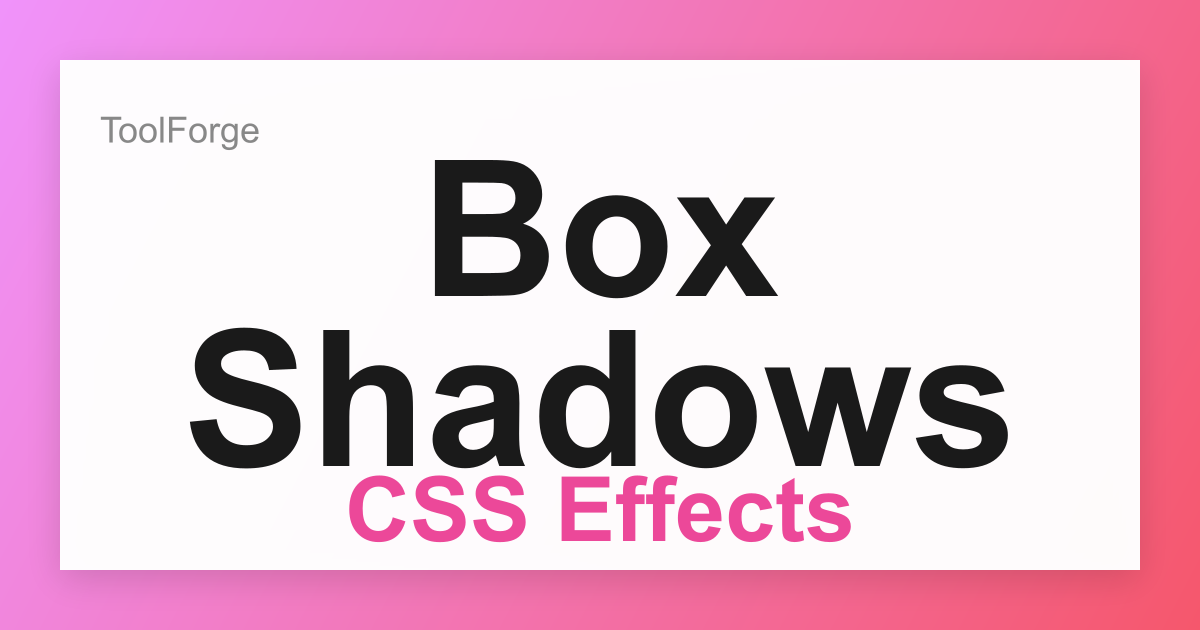
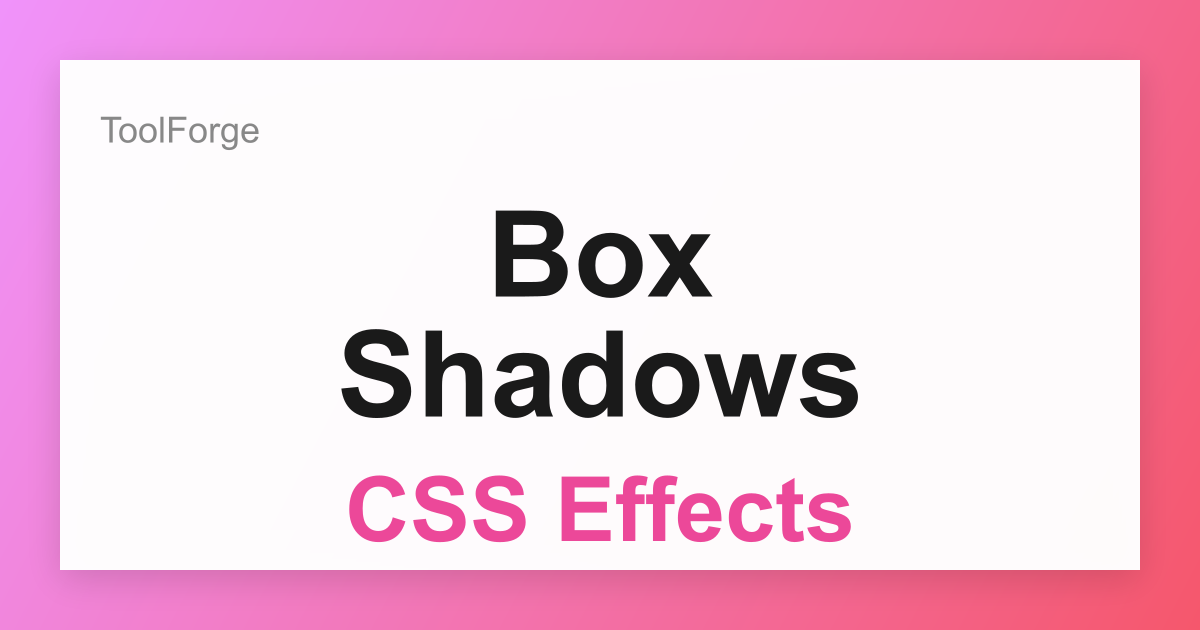
fix

Changed region(s): [[0.1542, 0.5127, 0.8633, 0.754], [0.3392, 0.2413, 0.6475, 0.4825]]

diff --git a/public/sw.js b/public/sw.js
@@ -1,1 +1,1 @@
-if(!self.define){let e,t={};const i=(i,s)=>(i=new URL(i+".js",s).href,t[i]||new Promise(t=>{if("document"in self){const e=document.createElement("script");e.src=i,e.onload=t,document.head.appendChild(e)}else e=i,importScripts(i),t()}).then(()=>{let e=t[i];if(!e)throw new Error(`Module ${i} didn’t register its module`);return e}));self.define=(s,n)=>{const a=e||("document"in self?document.currentScript.src:"")||location.href;if(t[a])return;let o={};const c=e=>i(e,a),r={module:{uri:a},exports:o,require:c};t[a]=Promise.all(s.map(e=>r[e]||c(e))).then(e=>(n(...e),o))}}define(["./workbox-f1770938"],function(e){"use strict";importScripts(),self.skipWaiting(),e.clientsClaim(),e.precacheAndRoute([{url:"/_next/static/OGNP-QfgqiVtOtif-BOIo/_buildManifest.js",revision:"71c14fcdb36ae1bef7d2cd6d7068c1ee"},{url:"/_next/static/OGNP-QfgqiVtOtif-BOIo/_ssgManifest.js",revision:"b6652df95db52feb4daf4eca35380933"},{url:"/_next/static/chunks/16-96c83bae66d10dbd.js",revision:"OGNP-QfgqiVtOtif-BOIo"},{url:"/_next/static/chunks/173-af539b47e4079187.js",revision:"OGNP-QfgqiVtOtif-BOIo"},{url:"/_next/static/chunks/455-a744ddb7aa677534.js",revision:"OGNP-QfgqiVtOtif-BOIo"},{url:"/_next/static/chunks/493-a3d5743656e64497.js",revision:"OGNP-QfgqiVtOtif-BOIo"},{url:"/_next/static/chunks/4bd1b696-b2c41ae85fbdf4dd.js",revision:"OGNP-QfgqiVtOtif-BOIo"},{url:"/_next/static/chunks/667-63ed7ea279d3b969.js",revision:"OGNP-QfgqiVtOtif-BOIo"},{url:"/_next/static/chunks/692-d049ff91a3966dd4.js",revision:"OGNP-QfgqiVtOtif-BOIo"},{url:"/_next/static/chunks/app/_not-found/page-79effc7b186285de.js",revision:"OGNP-QfgqiVtOtif-BOIo"},{url:"/_next/static/chunks/app/about/page-12b8e686f69b8ef1.js",revision:"OGNP-QfgqiVtOtif-BOIo"},{url:"/_next/static/chunks/app/layout-bb1d166196cb5897.js",revision:"OGNP-QfgqiVtOtif-BOIo"},{url:"/_next/static/chunks/app/not-found-dd8dce5b807e7f9d.js",revision:"OGNP-QfgqiVtOtif-BOIo"},{url:"/_next/static/chunks/app/page-f1c48c5bb7e84111.js",revision:"OGNP-QfgqiVtOtif-BOIo"},{url:"/_next/static/chunks/app/privacy/page-d486ef3959b3ee0f.js",revision:"OGNP-QfgqiVtOtif-BOIo"},{url:"/_next/static/chunks/app/terms/page-cf68ce670c89107e.js",revision:"OGNP-QfgqiVtOtif-BOIo"},{url:"/_next/static/chunks/app/tools/animation-generator/layout-579a284cb07aa80d.js",revision:"OGNP-QfgqiVtOtif-BOIo"},{url:"/_next/static/chunks/app/tools/animation-generator/page-17f429e9bed3852e.js",revision:"OGNP-QfgqiVtOtif-BOIo"},{url:"/_next/static/chunks/app/tools/base64/layout-b74907bcc2862cfe.js",revision:"OGNP-QfgqiVtOtif-BOIo"},{url:"/_next/static/chunks/app/tools/base64/page-5c9430d568ce7928.js",revision:"OGNP-QfgqiVtOtif-BOIo"},{url:"/_next/static/chunks/app/tools/box-shadow-generator/layout-9e104528f1fab2be.js",revision:"OGNP-QfgqiVtOtif-BOIo"},{url:"/_next/static/chunks/app/tools/box-shadow-generator/page-31cf54135cbe078a.js",revision:"OGNP-QfgqiVtOtif-BOIo"},{url:"/_next/static/chunks/app/tools/color-picker/layout-61ba61fbfba04730.js",revision:"OGNP-QfgqiVtOtif-BOIo"},{url:"/_next/static/chunks/app/tools/color-picker/page-f87a53b582b6c50d.js",revision:"OGNP-QfgqiVtOtif-BOIo"},{url:"/_next/static/chunks/app/tools/gradient-generator/layout-bd17366d55fe72ad.js",revision:"OGNP-QfgqiVtOtif-BOIo"},{url:"/_next/static/chunks/app/tools/gradient-generator/page-71bec575baa72fba.js",revision:"OGNP-QfgqiVtOtif-BOIo"},{url:"/_next/static/chunks/app/tools/image-converter/layout-abce022f7cff5923.js",revision:"OGNP-QfgqiVtOtif-BOIo"},{url:"/_next/static/chunks/app/tools/image-converter/page-f56816a900899206.js",revision:"OGNP-QfgqiVtOtif-BOIo"},{url:"/_next/static/chunks/app/tools/json-formatter/layout-ac160834388ee48f.js",revision:"OGNP-QfgqiVtOtif-BOIo"},{url:"/_next/static/chunks/app/tools/json-formatter/page-cca4b07b87436f85.js",revision:"OGNP-QfgqiVtOtif-BOIo"},{url:"/_next/static/chunks/app/tools/markdown-editor/layout-bf424b5755872a29.js",revision:"OGNP-QfgqiVtOtif-BOIo"},{url:"/_next/static/chunks/app/tools/markdown-editor/page-64c9ed73b16339cf.js",revision:"OGNP-QfgqiVtOtif-BOIo"},{url:"/_next/static/chunks/app/tools/password-generator/layout-4ddfcfffce5d3436.js",revision:"OGNP-QfgqiVtOtif-BOIo"},{url:"/_next/static/chunks/app/tools/password-generator/page-f0c976afde92df37.js",revision:"OGNP-QfgqiVtOtif-BOIo"},{url:"/_next/static/chunks/app/tools/qr-generator/layout-7e6fa0c5818b7661.js",revision:"OGNP-QfgqiVtOtif-BOIo"},{url:"/_next/static/chunks/app/tools/qr-generator/page-57e5d973d1f51e36.js",revision:"OGNP-QfgqiVtOtif-BOIo"},{url:"/_next/static/chunks/app/tools/uuid-generator/layout-90985488eed3ca55.js",revision:"OGNP-QfgqiVtOtif-BOIo"},{url:"/_next/static/chunks/app/tools/uuid-generator/page-cf4088651fb8e0f0.js",revision:"OGNP-QfgqiVtOtif-BOIo"},{url:"/_next/static/chunks/framework-2f7a2a91aee25783.js",revision:"OGNP-QfgqiVtOtif-BOIo"},{url:"/_next/static/chunks/main-83325495ead661dd.js",revision:"OGNP-QfgqiVtOtif-BOIo"},{url:"/_next/static/chunks/main-app-ba7ee680c0516187.js",revision:"OGNP-QfgqiVtOtif-BOIo"},{url:"/_next/static/chunks/pages/_app-ee10c72eff1e7aa6.js",revision:"OGNP-QfgqiVtOtif-BOIo"},{url:"/_next/static/chunks/pages/_error-b3f5020707ba398c.js",revision:"OGNP-QfgqiVtOtif-BOIo"},{url:"/_next/static/chunks/polyfills-42372ed130431b0a.js",revision:"846118c33b2c0e922d7b3a7676f81f6f"},{url:"/_next/static/chunks/webpack-9edee2920554d0a5.js",revision:"OGNP-QfgqiVtOtif-BOIo"},{url:"/_next/static/css/91c9d26db75c1e71.css",revision:"91c9d26db75c1e71"},{url:"/ads.txt",revision:"3adbf29f9b055d17d550183bd1e699d1"},{url:"/browserconfig.xml",revision:"f211afc83fb6f9d915d411fb76545343"},{url:"/icons/icon-128x128.png",revision:"c63a44b54a5ff8a77d37795de8f6aa0f"},{url:"/icons/icon-144x144.png",revision:"78bf1dd8983a89056a582308fcce67de"},{url:"/icons/icon-152x152.png",revision:"d5999f612093d895754ae71d75740c89"},{url:"/icons/icon-192x192.png",revision:"c575b4ebaca7e76bc85e70be1710e7e8"},{url:"/icons/icon-384x384.png",revision:"8bc3e24ce904560085dd8aeb7e68c0f9"},{url:"/icons/icon-512x512.png",revision:"1e8a87a7bb5921830b42103b34e166cf"},{url:"/icons/icon-72x72.png",revision:"a75cf1b8c7cbd59e5cfa844e925c5f7d"},{url:"/icons/icon-96x96.png",revision:"fb439436e554aedba0e5669c09d06b4d"},{url:"/og/animation-generator.png",revision:"ec65515e6e8b61229e524a7739fb5163"},{url:"/og/base64.png",revision:"757998ec00295d5ad4fa49dc78d4f251"},{url:"/og/box-shadow-generator.png",revision:"a8222260f57b34e9765116076ba523f3"},{url:"/og/color-picker.png",revision:"aa391344038362903932cb1d132b50c3"},{url:"/og/gradient-generator.png",revision:"2c3f765315d213630f6d6b179f16a2d2"},{url:"/og/home.png",revision:"9e0bb14ed20b23a9a295266b6c76bc59"},{url:"/og/image-converter.png",revision:"bbdbaa8d89d61f9c8f0145989101b90f"},{url:"/og/json-formatter.png",revision:"bc2847e182bda2fc8144f6f71dc40fc3"},{url:"/og/markdown-editor.png",revision:"6428bbb67148d4dd3ccf6191d6d7fb28"},{url:"/og/password-generator.png",revision:"597b9b3db2048439deacce67c206a107"},{url:"/og/qr-generator.png",revision:"7d145d3a1a3b0bba087fc8bc7acd3745"},{url:"/og/uuid-generator.png",revision:"a65ab9d3876616ce45137171fb385e12"}],{ignoreURLParametersMatching:[/^utm_/,/^fbclid$/]}),e.cleanupOutdatedCaches(),e.registerRoute("/",new e.NetworkFirst({cacheName:"start-url",plugins:[{cacheWillUpdate:function(e){return _ref.apply(this,arguments)}}]}),"GET"),e.registerRoute(/^https:\/\/fonts\.(?:gstatic)\.com\/.*/i,new e.CacheFirst({cacheName:"google-fonts-webfonts",plugins:[new e.ExpirationPlugin({maxEntries:4,maxAgeSeconds:31536e3})]}),"GET"),e.registerRoute(/^https:\/\/fonts\.(?:googleapis)\.com\/.*/i,new e.StaleWhileRevalidate({cacheName:"google-fonts-stylesheets",plugins:[new e.ExpirationPlugin({maxEntries:4,maxAgeSeconds:604800})]}),"GET"),e.registerRoute(/\.(?:eot|otf|ttc|ttf|woff|woff2|font.css)$/i,new e.StaleWhileRevalidate({cacheName:"static-font-assets",plugins:[new e.ExpirationPlugin({maxEntries:4,maxAgeSeconds:604800})]}),"GET"),e.registerRoute(/\.(?:jpg|jpeg|gif|png|svg|ico|webp)$/i,new e.StaleWhileRevalidate({cacheName:"static-image-assets",plugins:[new e.ExpirationPlugin({maxEntries:64,maxAgeSeconds:2592e3})]}),"GET"),e.registerRoute(/\/_next\/static.+\.js$/i,new e.CacheFirst({cacheName:"next-static-js-assets",plugins:[new e.ExpirationPlugin({maxEntries:64,maxAgeSeconds:86400})]}),"GET"),e.registerRoute(/\/_next\/image\?url=.+$/i,new e.StaleWhileRevalidate({cacheName:"next-image",plugins:[new e.ExpirationPlugin({maxEntries:64,maxAgeSeconds:86400})]}),"GET"),e.registerRoute(/\.(?:mp3|wav|ogg)$/i,new e.CacheFirst({cacheName:"static-audio-assets",plugins:[new e.RangeRequestsPlugin,new e.ExpirationPlugin({maxEntries:32,maxAgeSeconds:86400})]}),"GET"),e.registerRoute(/\.(?:mp4|webm)$/i,new e.CacheFirst({cacheName:"static-video-assets",plugins:[new e.RangeRequestsPlugin,new e.ExpirationPlugin({maxEntries:32,maxAgeSeconds:86400})]}),"GET"),e.registerRoute(/\.(?:js)$/i,new e.StaleWhileRevalidate({cacheName:"static-js-assets",plugins:[new e.ExpirationPlugin({maxEntries:48,maxAgeSeconds:86400})]}),"GET"),e.registerRoute(/\.(?:css|less)$/i,new e.StaleWhileRevalidate({cacheName:"static-style-assets",plugins:[new e.ExpirationPlugin({maxEntries:32,maxAgeSeconds:86400})]}),"GET"),e.registerRoute(/\/_next\/data\/.+\/.+\.json$/i,new e.StaleWhileRevalidate({cacheName:"next-data",plugins:[new e.ExpirationPlugin({maxEntries:32,maxAgeSeconds:86400})]}),"GET"),e.registerRoute(/\.(?:json|xml|csv)$/i,new e.NetworkFirst({cacheName:"static-data-assets",plugins:[new e.ExpirationPlugin({maxEntries:32,maxAgeSeconds:86400})]}),"GET"),e.registerRoute(function(e){var t=e.sameOrigin,i=e.url.pathname;return!(!t||i.startsWith("/api/auth/callback")||!i.startsWith("/api/"))},new e.NetworkFirst({cacheName:"apis",networkTimeoutSeconds:10,plugins:[new e.ExpirationPlugin({maxEntries:16,maxAgeSeconds:86400})]}),"GET"),e.registerRoute(function(e){var t=e.request,i=e.url.pathname,s=e.sameOrigin;return"1"===t.headers.get("RSC")&&"1"===t.headers.get("Next-Router-Prefetch")&&s&&!i.startsWith("/api/")},new e.NetworkFirst({cacheName:"pages-rsc-prefetch",plugins:[new e.ExpirationPlugin({maxEntries:32,maxAgeSeconds:86400})]}),"GET"),e.registerRoute(function(e){var t=e.request,i=e.url.pathname,s=e.sameOrigin;return"1"===t.headers.get("RSC")&&s&&!i.startsWith("/api/")},new e.NetworkFirst({cacheName:"pages-rsc",plugins:[new e.ExpirationPlugin({maxEntries:32,maxAgeSeconds:86400})]}),"GET"),e.registerRoute(function(e){var t=e.url.pathname;return e.sameOrigin&&!t.startsWith("/api/")},new e.NetworkFirst({cacheName:"pages",plugins:[new e.ExpirationPlugin({maxEntries:32,maxAgeSeconds:86400})]}),"GET"),e.registerRoute(function(e){return!e.sameOrigin},new e.NetworkFirst({cacheName:"cross-origin",networkTimeoutSeconds:10,plugins:[new e.ExpirationPlugin({maxEntries:32,maxAgeSeconds:3600})]}),"GET")});
+if(!self.define){let e,n={};const s=(s,a)=>(s=new URL(s+".js",a).href,n[s]||new Promise(n=>{if("document"in self){const e=document.createElement("script");e.src=s,e.onload=n,document.head.appendChild(e)}else e=s,importScripts(s),n()}).then(()=>{let e=n[s];if(!e)throw new Error(`Module ${s} didn’t register its module`);return e}));self.define=(a,t)=>{const i=e||("document"in self?document.currentScript.src:"")||location.href;if(n[i])return;let c={};const o=e=>s(e,i),r={module:{uri:i},exports:c,require:o};n[i]=Promise.all(a.map(e=>r[e]||o(e))).then(e=>(t(...e),c))}}define(["./workbox-f1770938"],function(e){"use strict";importScripts(),self.skipWaiting(),e.clientsClaim(),e.precacheAndRoute([{url:"/_next/static/BdCSSmXE6ZgR2jnulj90l/_buildManifest.js",revision:"71c14fcdb36ae1bef7d2cd6d7068c1ee"},{url:"/_next/static/BdCSSmXE6ZgR2jnulj90l/_ssgManifest.js",revision:"b6652df95db52feb4daf4eca35380933"},{url:"/_next/static/chunks/16-96c83bae66d10dbd.js",revision:"BdCSSmXE6ZgR2jnulj90l"},{url:"/_next/static/chunks/173-af539b47e4079187.js",revision:"BdCSSmXE6ZgR2jnulj90l"},{url:"/_next/static/chunks/455-a744ddb7aa677534.js",revision:"BdCSSmXE6ZgR2jnulj90l"},{url:"/_next/static/chunks/493-a3d5743656e64497.js",revision:"BdCSSmXE6ZgR2jnulj90l"},{url:"/_next/static/chunks/4bd1b696-b2c41ae85fbdf4dd.js",revision:"BdCSSmXE6ZgR2jnulj90l"},{url:"/_next/static/chunks/667-63ed7ea279d3b969.js",revision:"BdCSSmXE6ZgR2jnulj90l"},{url:"/_next/static/chunks/692-d049ff91a3966dd4.js",revision:"BdCSSmXE6ZgR2jnulj90l"},{url:"/_next/static/chunks/app/_not-found/page-79effc7b186285de.js",revision:"BdCSSmXE6ZgR2jnulj90l"},{url:"/_next/static/chunks/app/about/page-12b8e686f69b8ef1.js",revision:"BdCSSmXE6ZgR2jnulj90l"},{url:"/_next/static/chunks/app/layout-bb1d166196cb5897.js",revision:"BdCSSmXE6ZgR2jnulj90l"},{url:"/_next/static/chunks/app/not-found-dd8dce5b807e7f9d.js",revision:"BdCSSmXE6ZgR2jnulj90l"},{url:"/_next/static/chunks/app/page-f1c48c5bb7e84111.js",revision:"BdCSSmXE6ZgR2jnulj90l"},{url:"/_next/static/chunks/app/privacy/page-d486ef3959b3ee0f.js",revision:"BdCSSmXE6ZgR2jnulj90l"},{url:"/_next/static/chunks/app/terms/page-cf68ce670c89107e.js",revision:"BdCSSmXE6ZgR2jnulj90l"},{url:"/_next/static/chunks/app/tools/animation-generator/layout-579a284cb07aa80d.js",revision:"BdCSSmXE6ZgR2jnulj90l"},{url:"/_next/static/chunks/app/tools/animation-generator/page-17f429e9bed3852e.js",revision:"BdCSSmXE6ZgR2jnulj90l"},{url:"/_next/static/chunks/app/tools/base64/layout-b74907bcc2862cfe.js",revision:"BdCSSmXE6ZgR2jnulj90l"},{url:"/_next/static/chunks/app/tools/base64/page-5c9430d568ce7928.js",revision:"BdCSSmXE6ZgR2jnulj90l"},{url:"/_next/static/chunks/app/tools/box-shadow-generator/layout-9e104528f1fab2be.js",revision:"BdCSSmXE6ZgR2jnulj90l"},{url:"/_next/static/chunks/app/tools/box-shadow-generator/page-31cf54135cbe078a.js",revision:"BdCSSmXE6ZgR2jnulj90l"},{url:"/_next/static/chunks/app/tools/color-picker/layout-61ba61fbfba04730.js",revision:"BdCSSmXE6ZgR2jnulj90l"},{url:"/_next/static/chunks/app/tools/color-picker/page-f87a53b582b6c50d.js",revision:"BdCSSmXE6ZgR2jnulj90l"},{url:"/_next/static/chunks/app/tools/gradient-generator/layout-bd17366d55fe72ad.js",revision:"BdCSSmXE6ZgR2jnulj90l"},{url:"/_next/static/chunks/app/tools/gradient-generator/page-71bec575baa72fba.js",revision:"BdCSSmXE6ZgR2jnulj90l"},{url:"/_next/static/chunks/app/tools/image-converter/layout-abce022f7cff5923.js",revision:"BdCSSmXE6ZgR2jnulj90l"},{url:"/_next/static/chunks/app/tools/image-converter/page-f56816a900899206.js",revision:"BdCSSmXE6ZgR2jnulj90l"},{url:"/_next/static/chunks/app/tools/json-formatter/layout-ac160834388ee48f.js",revision:"BdCSSmXE6ZgR2jnulj90l"},{url:"/_next/static/chunks/app/tools/json-formatter/page-cca4b07b87436f85.js",revision:"BdCSSmXE6ZgR2jnulj90l"},{url:"/_next/static/chunks/app/tools/markdown-editor/layout-bf424b5755872a29.js",revision:"BdCSSmXE6ZgR2jnulj90l"},{url:"/_next/static/chunks/app/tools/markdown-editor/page-64c9ed73b16339cf.js",revision:"BdCSSmXE6ZgR2jnulj90l"},{url:"/_next/static/chunks/app/tools/password-generator/layout-4ddfcfffce5d3436.js",revision:"BdCSSmXE6ZgR2jnulj90l"},{url:"/_next/static/chunks/app/tools/password-generator/page-f0c976afde92df37.js",revision:"BdCSSmXE6ZgR2jnulj90l"},{url:"/_next/static/chunks/app/tools/qr-generator/layout-7e6fa0c5818b7661.js",revision:"BdCSSmXE6ZgR2jnulj90l"},{url:"/_next/static/chunks/app/tools/qr-generator/page-57e5d973d1f51e36.js",revision:"BdCSSmXE6ZgR2jnulj90l"},{url:"/_next/static/chunks/app/tools/uuid-generator/layout-90985488eed3ca55.js",revision:"BdCSSmXE6ZgR2jnulj90l"},{url:"/_next/static/chunks/app/tools/uuid-generator/page-cf4088651fb8e0f0.js",revision:"BdCSSmXE6ZgR2jnulj90l"},{url:"/_next/static/chunks/framework-2f7a2a91aee25783.js",revision:"BdCSSmXE6ZgR2jnulj90l"},{url:"/_next/static/chunks/main-83325495ead661dd.js",revision:"BdCSSmXE6ZgR2jnulj90l"},{url:"/_next/static/chunks/main-app-ba7ee680c0516187.js",revision:"BdCSSmXE6ZgR2jnulj90l"},{url:"/_next/static/chunks/pages/_app-ee10c72eff1e7aa6.js",revision:"BdCSSmXE6ZgR2jnulj90l"},{url:"/_next/static/chunks/pages/_error-b3f5020707ba398c.js",revision:"BdCSSmXE6ZgR2jnulj90l"},{url:"/_next/static/chunks/polyfills-42372ed130431b0a.js",revision:"846118c33b2c0e922d7b3a7676f81f6f"},{url:"/_next/static/chunks/webpack-9edee2920554d0a5.js",revision:"BdCSSmXE6ZgR2jnulj90l"},{url:"/_next/static/css/91c9d26db75c1e71.css",revision:"91c9d26db75c1e71"},{url:"/ads.txt",revision:"3adbf29f9b055d17d550183bd1e699d1"},{url:"/browserconfig.xml",revision:"f211afc83fb6f9d915d411fb76545343"},{url:"/icons/icon-128x128.png",revision:"c63a44b54a5ff8a77d37795de8f6aa0f"},{url:"/icons/icon-144x144.png",revision:"78bf1dd8983a89056a582308fcce67de"},{url:"/icons/icon-152x152.png",revision:"d5999f612093d895754ae71d75740c89"},{url:"/icons/icon-192x192.png",revision:"c575b4ebaca7e76bc85e70be1710e7e8"},{url:"/icons/icon-384x384.png",revision:"8bc3e24ce904560085dd8aeb7e68c0f9"},{url:"/icons/icon-512x512.png",revision:"1e8a87a7bb5921830b42103b34e166cf"},{url:"/icons/icon-72x72.png",revision:"a75cf1b8c7cbd59e5cfa844e925c5f7d"},{url:"/icons/icon-96x96.png",revision:"fb439436e554aedba0e5669c09d06b4d"},{url:"/og/animation-generator.png",revision:"cd3822bfceb3cac67ce255a2ce779d2e"},{url:"/og/base64.png",revision:"5f37530abaf90ea56c1823598141d726"},{url:"/og/box-shadow-generator.png",revision:"afbe9c12b67706e411e376fbd76ebb85"},{url:"/og/color-picker.png",revision:"db5c7dfa4773f2168fadf5342f0f403d"},{url:"/og/gradient-generator.png",revision:"23f0137b5200ba330af70845b2cf7299"},{url:"/og/home.png",revision:"9e0bb14ed20b23a9a295266b6c76bc59"},{url:"/og/image-converter.png",revision:"553dee6ac2cff76ba62b39bd56f949fd"},{url:"/og/json-formatter.png",revision:"baa4de3fcb86b91387f8d0dd606dd47d"},{url:"/og/markdown-editor.png",revision:"4906b6b7b0b12932663f1cc9a3e79946"},{url:"/og/password-generator.png",revision:"f01671dd6e2b4bc3e65c794f5db8d7fe"},{url:"/og/qr-generator.png",revision:"b38250090fdad4a0f758b19695f02430"},{url:"/og/uuid-generator.png",revision:"bef75d7ef0d690a7e260c007edce6979"}],{ignoreURLParametersMatching:[/^utm_/,/^fbclid$/]}),e.cleanupOutdatedCaches(),e.registerRoute("/",new e.NetworkFirst({cacheName:"start-url",plugins:[{cacheWillUpdate:function(e){return _ref.apply(this,arguments)}}]}),"GET"),e.registerRoute(/^https:\/\/fonts\.(?:gstatic)\.com\/.*/i,new e.CacheFirst({cacheName:"google-fonts-webfonts",plugins:[new e.ExpirationPlugin({maxEntries:4,maxAgeSeconds:31536e3})]}),"GET"),e.registerRoute(/^https:\/\/fonts\.(?:googleapis)\.com\/.*/i,new e.StaleWhileRevalidate({cacheName:"google-fonts-stylesheets",plugins:[new e.ExpirationPlugin({maxEntries:4,maxAgeSeconds:604800})]}),"GET"),e.registerRoute(/\.(?:eot|otf|ttc|ttf|woff|woff2|font.css)$/i,new e.StaleWhileRevalidate({cacheName:"static-font-assets",plugins:[new e.ExpirationPlugin({maxEntries:4,maxAgeSeconds:604800})]}),"GET"),e.registerRoute(/\.(?:jpg|jpeg|gif|png|svg|ico|webp)$/i,new e.StaleWhileRevalidate({cacheName:"static-image-assets",plugins:[new e.ExpirationPlugin({maxEntries:64,maxAgeSeconds:2592e3})]}),"GET"),e.registerRoute(/\/_next\/static.+\.js$/i,new e.CacheFirst({cacheName:"next-static-js-assets",plugins:[new e.ExpirationPlugin({maxEntries:64,maxAgeSeconds:86400})]}),"GET"),e.registerRoute(/\/_next\/image\?url=.+$/i,new e.StaleWhileRevalidate({cacheName:"next-image",plugins:[new e.ExpirationPlugin({maxEntries:64,maxAgeSeconds:86400})]}),"GET"),e.registerRoute(/\.(?:mp3|wav|ogg)$/i,new e.CacheFirst({cacheName:"static-audio-assets",plugins:[new e.RangeRequestsPlugin,new e.ExpirationPlugin({maxEntries:32,maxAgeSeconds:86400})]}),"GET"),e.registerRoute(/\.(?:mp4|webm)$/i,new e.CacheFirst({cacheName:"static-video-assets",plugins:[new e.RangeRequestsPlugin,new e.ExpirationPlugin({maxEntries:32,maxAgeSeconds:86400})]}),"GET"),e.registerRoute(/\.(?:js)$/i,new e.StaleWhileRevalidate({cacheName:"static-js-assets",plugins:[new e.ExpirationPlugin({maxEntries:48,maxAgeSeconds:86400})]}),"GET"),e.registerRoute(/\.(?:css|less)$/i,new e.StaleWhileRevalidate({cacheName:"static-style-assets",plugins:[new e.ExpirationPlugin({maxEntries:32,maxAgeSeconds:86400})]}),"GET"),e.registerRoute(/\/_next\/data\/.+\/.+\.json$/i,new e.StaleWhileRevalidate({cacheName:"next-data",plugins:[new e.ExpirationPlugin({maxEntries:32,maxAgeSeconds:86400})]}),"GET"),e.registerRoute(/\.(?:json|xml|csv)$/i,new e.NetworkFirst({cacheName:"static-data-assets",plugins:[new e.ExpirationPlugin({maxEntries:32,maxAgeSeconds:86400})]}),"GET"),e.registerRoute(function(e){var n=e.sameOrigin,s=e.url.pathname;return!(!n||s.startsWith("/api/auth/callback")||!s.startsWith("/api/"))},new e.NetworkFirst({cacheName:"apis",networkTimeoutSeconds:10,plugins:[new e.ExpirationPlugin({maxEntries:16,maxAgeSeconds:86400})]}),"GET"),e.registerRoute(function(e){var n=e.request,s=e.url.pathname,a=e.sameOrigin;return"1"===n.headers.get("RSC")&&"1"===n.headers.get("Next-Router-Prefetch")&&a&&!s.startsWith("/api/")},new e.NetworkFirst({cacheName:"pages-rsc-prefetch",plugins:[new e.ExpirationPlugin({maxEntries:32,maxAgeSeconds:86400})]}),"GET"),e.registerRoute(function(e){var n=e.request,s=e.url.pathname,a=e.sameOrigin;return"1"===n.headers.get("RSC")&&a&&!s.startsWith("/api/")},new e.NetworkFirst({cacheName:"pages-rsc",plugins:[new e.ExpirationPlugin({maxEntries:32,maxAgeSeconds:86400})]}),"GET"),e.registerRoute(function(e){var n=e.url.pathname;return e.sameOrigin&&!n.startsWith("/api/")},new e.NetworkFirst({cacheName:"pages",plugins:[new e.ExpirationPlugin({maxEntries:32,maxAgeSeconds:86400})]}),"GET"),e.registerRoute(function(e){return!e.sameOrigin},new e.NetworkFirst({cacheName:"cross-origin",networkTimeoutSeconds:10,plugins:[new e.ExpirationPlugin({maxEntries:32,maxAgeSeconds:3600})]}),"GET")});

diff --git a/scripts/generate-og-images.ts b/scripts/generate-og-images.ts
@@ -163,7 +163,7 @@ async function generateSimpleOGImage(tool: Tool, outputPath: string): Promise<vo
 
   // LARGE TITLE - Readable but fits nicely
   ctx.fillStyle = '#1a1a1a'
-  ctx.font = 'bold 190px Arial'
+  ctx.font = 'bold 120px Arial'
   ctx.textAlign = 'center'
   ctx.textBaseline = 'middle'
 
@@ -172,17 +172,17 @@ async function generateSimpleOGImage(tool: Tool, outputPath: string): Promise<vo
   if (titleWords.length > 1) {
     // Multi-word title - check length and adjust font size
     const fullTitle = tool.title
-    let fontSize = 190
-    let lineSpacing = 85
+    let fontSize = 120
+    let lineSpacing = 60
 
     // Reduce size for very long titles
     if (fullTitle.length > 15) {
-      fontSize = 150
-      lineSpacing = 70
+      fontSize = 120
+      lineSpacing = 50
       ctx.font = `bold ${fontSize}px Arial`
     } else if (fullTitle.length > 12) {
-      fontSize = 170
-      lineSpacing = 80
+      fontSize = 120
+      lineSpacing = 50
       ctx.font = `bold ${fontSize}px Arial`
     }
 
